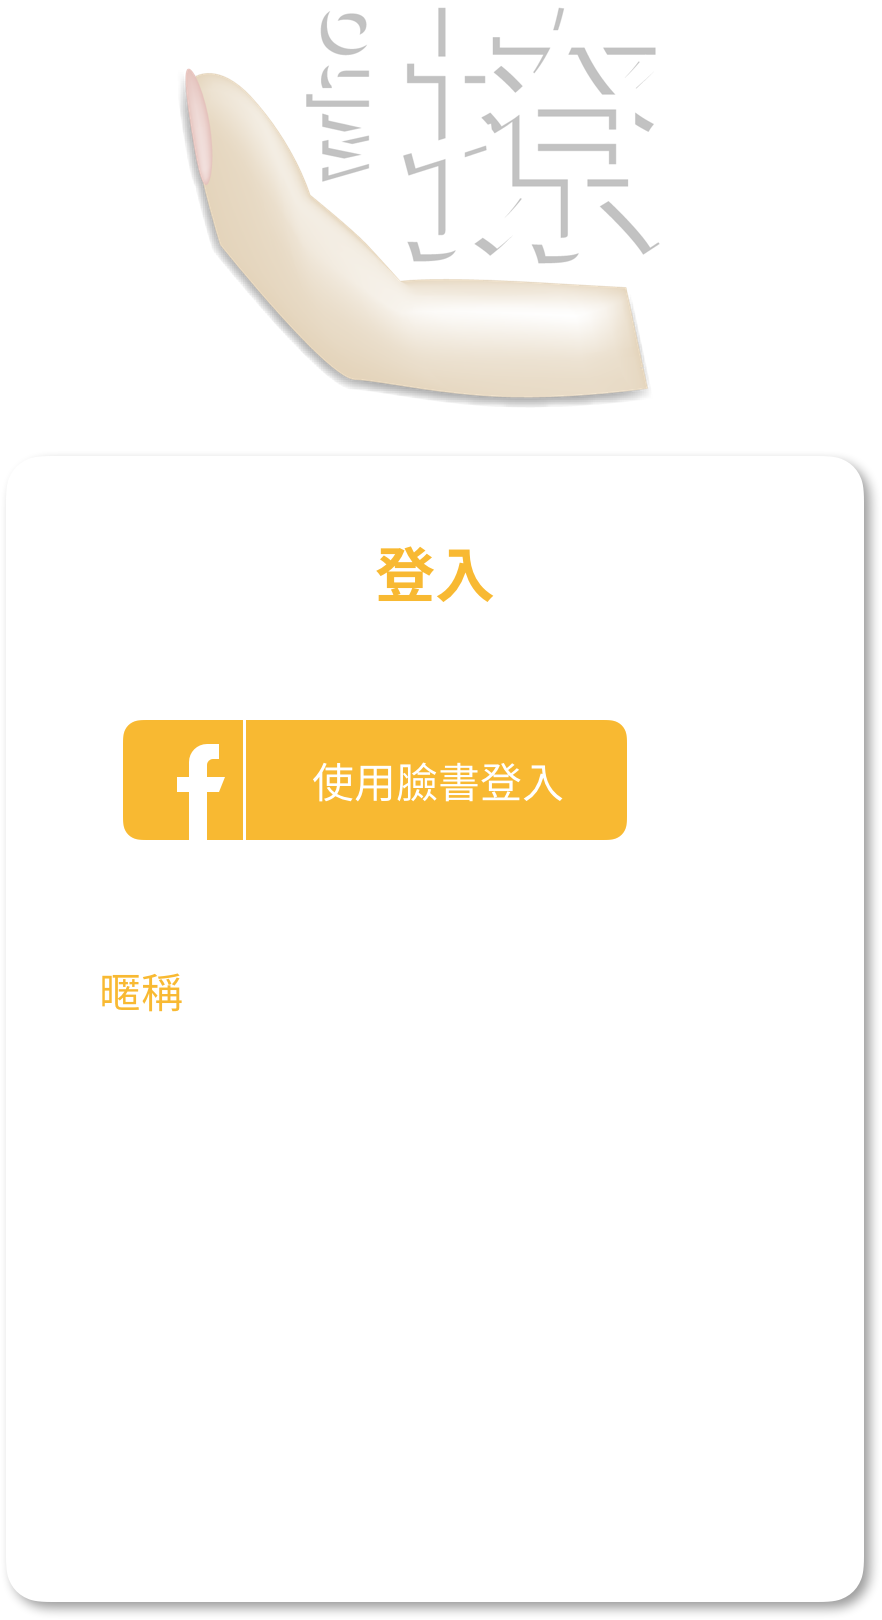
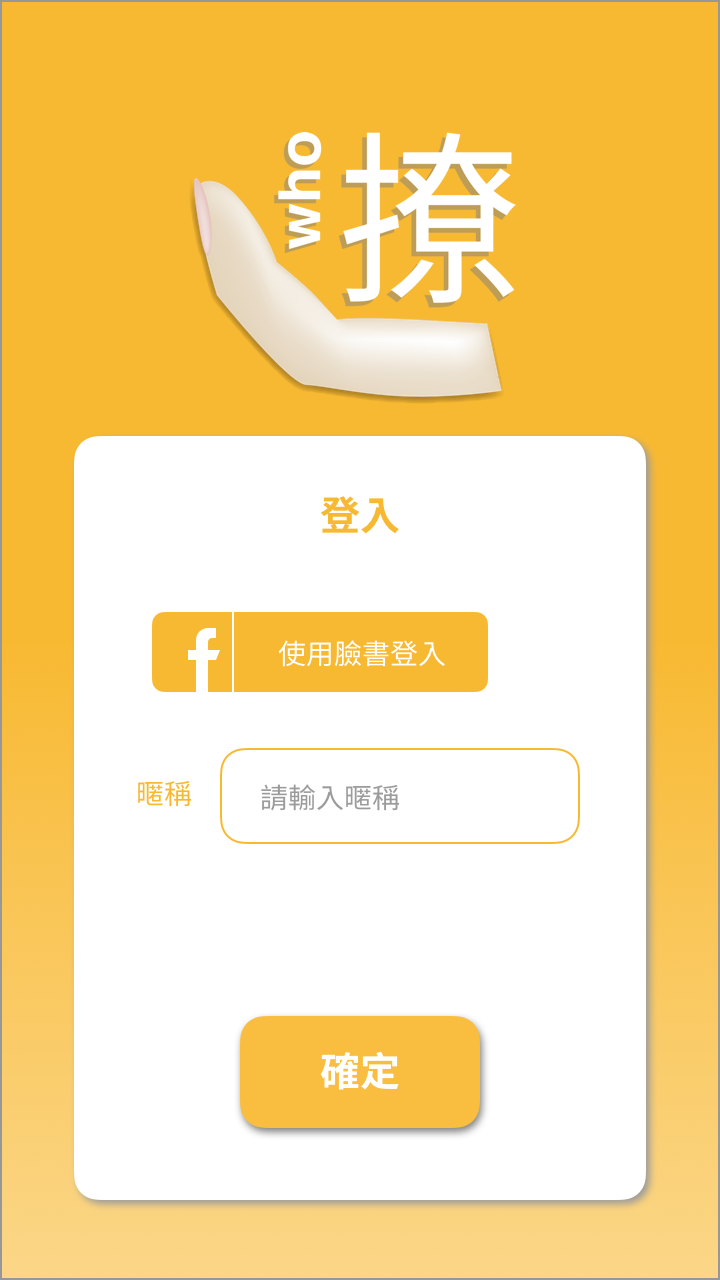
v1.0

diff --git a/public/stylesheets/make_pair.css b/public/stylesheets/make_pair.css
@@ -1,15 +1,28 @@
 .content{
+  position: absolute;
   width: 100%;
+  height:100%;
   text-align: center;
+  top:0%;
+  overflow: hidden;
 }
 
 
 
-.show,.join{
-    position: absolute;
-    top:0;
-    width:100%;
+.show.join{
+    
+    position: relative;
+    /* height:30%; */
+    bottom:250px;
+    
     text-align: center;   
+    }
+.inputID{
+    width:35%;
+    height:64px;
+    border: 1px solid #000;
+    font:inherit;
+    text-align: center;
 }
 
 .qrcode{
@@ -18,19 +31,77 @@
 
 .tool_footor{
     position: absolute;
-    bottom:0px;
-    height:10%;
-    width:100%;
+    bottom:145px;
+    left:25%;
+    height:5%;
+    width:50%;
 }
-
+.text{
+    
+    background-color:white; 
+    font-size:60px;
+    color:#f8b932;
+    text-align: center; 
+    position: absolute;
+    bottom: 23%;
+    left:40%;
+    height:5%;
+    width:30%;
+}
+.text2{
+    
+    background-color:white; 
+    font-size:60px;
+    color:#f8b932;
+    text-align: center; 
+    position: absolute;
+    top: 30%;
+    left:20%;
+    height:5%;
+    width:50%;
+}
 .tool_footor button{
-    width:100%;
+    width:50px;
+    height: 50px;
+    margin: 5px;
+    border: 1px solid #f8b932;
+    color:white;
+    border-radius:50% ;
+    -webkit-transition-duration: 0.4s; /* Safari */
+    transition-duration: 0.4s;
 }
 
 input{
-  width:35%;
-  height:64px;
-  border: 1px solid #000;
-  font:inherit;
-  text-align: center;
+    position: absolute;
+    top:20%;
+    width:35%;
+    height:64px;
+    border: 1px solid #000;
+    font:inherit;
+    text-align: center;
+}
+
+
+.pairBtn{
+    position: absolute;
+    bottom: 10%;
+    left:35%;
+    width:200px;
+    height: 200px;
+    margin: 5px;
+    border: 0px solid #f8b932;
+    color:white;
+}
+
+.pair-btn{
+    margin-top:-200px;
+    width:400px;
+    height:300px;
+    border: 1px solid #000;
+    opacity: 0;
+}
+
+input{
+    width:200px;
+    height:60px;
 }

diff --git a/routes/signin.js b/routes/signin.js
@@ -7,15 +7,15 @@ router.get('/', function (req, res) {
 });
 
 router.post('/', function (req, res) {
-    if (!req.body.name) {
-        //重複 或 未填入說鞥者名稱
-        res.redirect('/signin');
-    } else {
+    // if (!req.body.name) {
+    //     //重複 或 未填入說鞥者名稱
+    //     res.redirect('/signin');
+    // } else {
         let user_id = cryptoRandomString(5);
         res.cookie("user", req.body.name, { maxAge: 1000 * 60 * 60 * 24 * 30 });
         res.cookie("user_id", user_id, { maxAge: 1000 * 60 * 60 * 24 * 30 });
         res.redirect('/make_pair?user_id=' + user_id);
-    }
+    // }
 });
 
 module.exports = router;

diff --git a/public/stylesheets/index.css b/public/stylesheets/index.css
@@ -1,7 +1,32 @@
 .content{
   text-align: center;
+  position: absolute;
+    width:100%;
+		height:100%;
+		top:0%;
+		overflow: hidden;
+    background-image: linear-gradient(to top, #fde9bf, #f8b932);
+}
+.start-game-btn{
+  position: absolute;
+  width: 360px;
+  height: 168px;
+  border-radius:505px;
+  background-color: #FFF;
+  top:1420px;
+  left:320px;
+  box-shadow: 3px 5px 10px 0 rgba(0, 0, 0, 0.5);
+  font-family: NotoSansMonoCJKtc;
+  font-size:60px;
+  font-weight:bold;
+  color:#f8b932;
 }
 
+.description-img{
+	width:1000px;
+  height:1800px;
+  top:240px
+}
 
 .content form{
   text-align: center;
